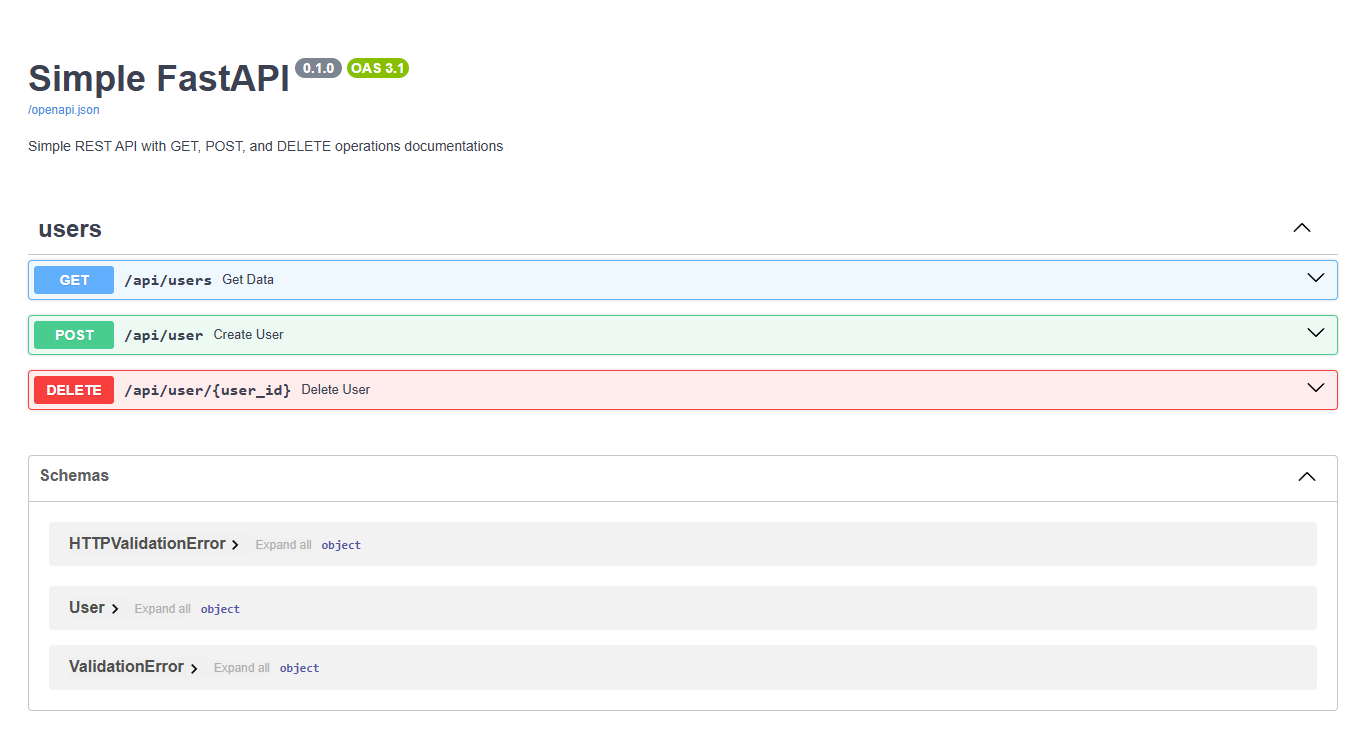
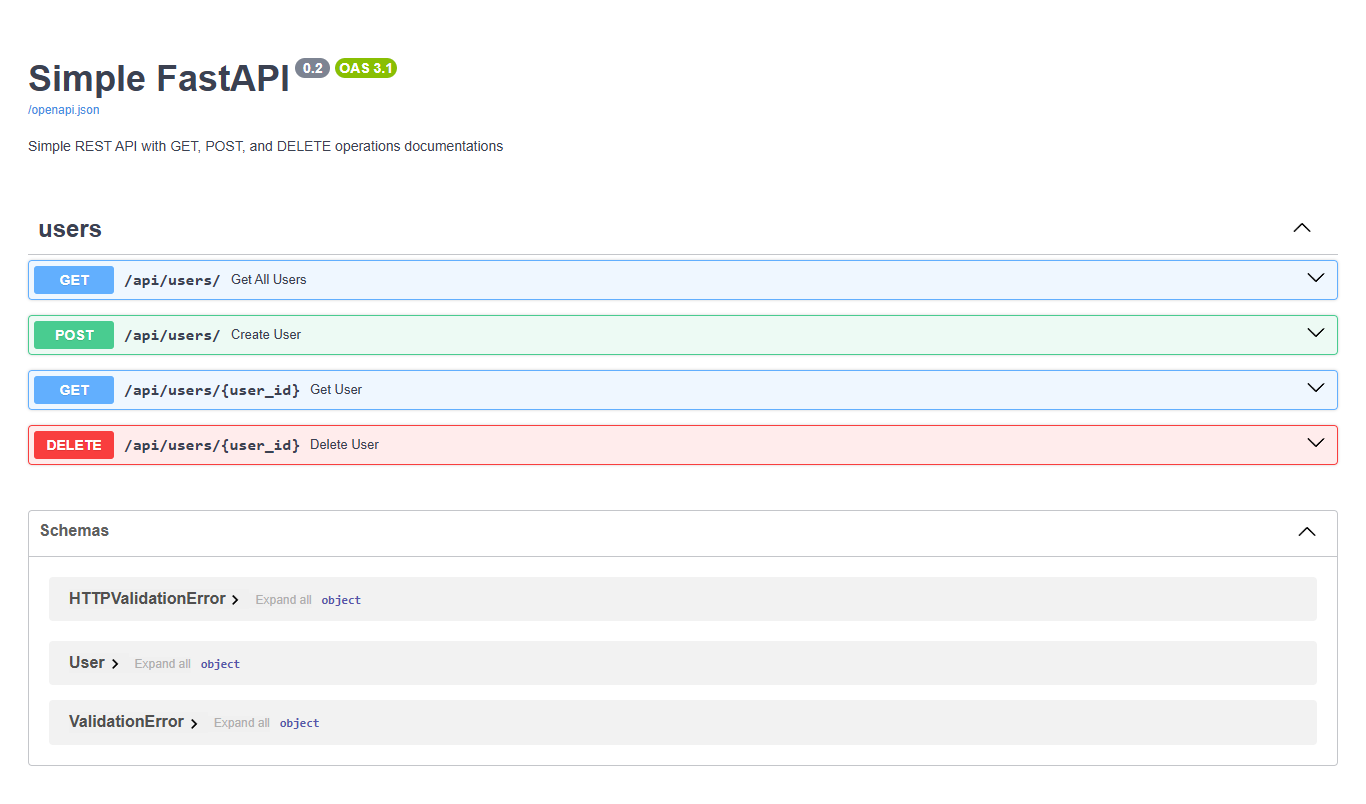
menata ulang path untuk best practice, dan menambahkan operasi get berdasarkan id user

diff --git a/app/routes/users.py b/app/routes/users.py
@@ -1,65 +1,17 @@
-from typing import Annotated
+from typing import Annotated, List
 
-import uvicorn
-from fastapi import FastAPI, Depends, HTTPException, Body
-from sqlmodel import Field, SQLModel, create_engine, select, Session
+from fastapi import HTTPException, Body, APIRouter
+from sqlmodel import select
 
-# sqlite database connection using sqlmodel
-sqlite_file = "user.db"
-sqlite_url = f"sqlite:///{sqlite_file}"
-
-connect_args = {"check_same_thread": False}
-engine = create_engine(sqlite_url, connect_args=connect_args)
-
-def get_session():
-    with Session(engine) as session:
-        yield session
-
-SessionDep = Annotated[Session, Depends(get_session)]
+from connection import SessionDep
+from schemas import User
 
 
-# user validation schema
-class User(SQLModel, table=True):
-    id: int | None = Field(default=None, primary_key=True)
-    nama: str = Field(index=True)
-    umur: int | None = Field(default=None, index=True)
-    alamat: str | None = Field(default=None)
-    
+user_router = APIRouter()
 
-# init fastapi
-app = FastAPI(
-    title="Simple FastAPI",
-    description="Simple REST API with GET, POST, and DELETE operations documentations"
-)
-
-# get data
-@app.get("/api/users", status_code=200, tags=["users"],
+# get all users
+@user_router.get("/", status_code=200, response_model=List[User],
         responses={
-            200: {
-                "description": "Sukses",
-                "content": {
-                    "application/json": {
-                        "example": { 
-                            "status": 200,
-                            "message": "Success",
-                            "data": [
-                                {
-                                    "id": 1,
-                                    "nama": "Ronggo Widjoyo",
-                                    "umur": 20,
-                                    "alamat": "Lamongan"
-                                },
-                                {
-                                    "id": 2,
-                                    "nama": "Ronggo Widjoyo",
-                                    "umur": 20,
-                                    "alamat": "Lamongan"
-                                },
-                            ]
-                        },
-                    }
-                }
-            },
             404: {
                 "description": "Tidak ditemukan",
                 "content": {
@@ -72,22 +24,43 @@ app = FastAPI(
                 }
             }
         }
-)
-def get_data(session: SessionDep):
+    )
+def get_all_users(session: SessionDep):
     """
     Menampilkan semua data User dalam database
     """
     users = session.exec(select(User)).all()
     if not users:
         raise HTTPException(status_code=404, detail="Tidak ada data")
-    return {
-        "status": 200,
-        "message": "Success",
-        "data": [user.model_dump() for user in users]
-    }
+    return users
+
+# get user
+@user_router.get("/{user_id}", status_code=200, response_model=User,
+                 responses={
+                        404: {
+                            "description": "User tidak ditemukan",
+                            "content": {
+                                "application/json": {
+                                    "example": {
+                                        "status": 404,
+                                        "detail": "User tidak ada"
+                                    }
+                                }
+                            }
+                        }
+                    }
+                 )
+def get_user(user_id: int, session: SessionDep):
+    """
+    Mengambil data user berdasarkan *id* user
+    """
+    user = session.get(User, user_id)
+    if not user:
+        raise HTTPException(status_code=404, detail="User tidak ada")
+    return user.model_dump()
 
 # insert data
-@app.post("/api/user", status_code=201, tags=["users"],
+@user_router.post("/", status_code=201,
           responses={
               201: {
                   "description": "Berhasil membuat user",
@@ -119,21 +92,26 @@ def get_data(session: SessionDep):
               }
           }
           )
-def create_user(id: int, nama: str, umur: int, alamat: str, session: SessionDep, user: Annotated[User, Body(examples=[{"id": 1, "nama": "Ronggo Widjoyo", "umur": 20, "alamat": "Lamongan"}])]):
+def create_user(user: Annotated[User, Body(examples=[{"id": 1, "nama": "Ronggo Widjoyo", "umur": 20, "alamat": "Lamongan"}])], session: SessionDep):
     """
     Mambahkan data user ke dalam database
     """
+    user_sekarang = session.get(User, user.id)
+    if user_sekarang:
+        raise HTTPException(status_code=400, detail="Coba dengan id berbeda")
+    
     try:
-        user = User(id=id, nama=nama, umur=umur, alamat=alamat)
         session.add(user)
+        session.flush()
         session.commit()
         session.refresh(user)
         return {"status": 201, "message": "User berhasil dibuat", "data": user.model_dump()}
-    except:
-        raise HTTPException(status_code=400, detail="Coba dengan id berbeda")
+    except Exception as e:
+        session.rollback()
+        raise HTTPException(status_code=500, detail=f"Gagal membuat user: {str(e)}")
 
 # delete data
-@app.delete("/api/user/{user_id}", status_code=200, tags=["users"],
+@user_router.delete("/{user_id}", status_code=200,
             responses={
                 200: {
                     "description": "Berhasil menghapus user",
@@ -158,18 +136,17 @@ def create_user(id: int, nama: str, umur: int, alamat: str, session: SessionDep,
                     }
                 }
             })
-def delete_user(user_id: int, session: SessionDep, user: Annotated[User, Body(examples=[{"id": 1}])]):
+def delete_user(user_id: int, session: SessionDep):
     """
     Menghapus data user berdasarkan id dalam database
     """
     user = session.get(User, user_id)
     if not user:
         raise HTTPException(status_code=404, detail="User tidak ditemukan")
-    session.delete(user)
-    session.commit()
-    return {"status": 200, "message": "Data berhasil dihapus"}
-
-
-
-if __name__ == '__main__':
-    uvicorn.run(app, port=8000)
+    try:
+        session.delete(user)
+        session.commit()
+        return {"status": 200, "message": "Data berhasil dihapus"}
+    except Exception as e:
+        session.rollback()
+        raise HTTPException(status_code=500, detail=f"Gagal menghapus user: {str(e)}")

diff --git a/app/connection.py b/app/connection.py
@@ -1,0 +1,18 @@
+from typing import Annotated
+
+from fastapi import Depends
+from sqlmodel import create_engine, Session
+
+
+# sqlite database connection using sqlmodel
+sqlite_file = "user.db"
+sqlite_url = f"sqlite:///{sqlite_file}"
+
+connect_args = {"check_same_thread": False}
+engine = create_engine(sqlite_url, connect_args=connect_args)
+
+def get_session():
+    with Session(engine) as session:
+        yield session
+
+SessionDep = Annotated[Session, Depends(get_session)]

diff --git a/app/main.py b/app/main.py
@@ -1,0 +1,18 @@
+import uvicorn
+from fastapi import FastAPI
+from routes.users import user_router
+    
+
+# init fastapi
+app = FastAPI(
+    title="Simple FastAPI",
+    description="Simple REST API with GET, POST, and DELETE operations documentations",
+    version="0.2",
+    docs_url="/api/docs",
+)
+
+app.include_router(user_router, prefix="/api/users", tags=["users"])
+
+
+if __name__ == '__main__':
+    uvicorn.run(app, port=8000)

diff --git a/app/schemas.py b/app/schemas.py
@@ -1,0 +1,12 @@
+from sqlmodel import Field, SQLModel
+
+
+# user validation schema
+class User(SQLModel, table=True):
+    id: int = Field(default=None, primary_key=True)
+    nama: str = Field(index=True)
+    umur: int = Field(default=None)
+    alamat: str = Field(default=None)
+
+    class Config:
+        from_attributes = True  # Agar FastAPI bisa mengonversi objek SQLModel ke JSON

diff --git a/README.md b/README.md
@@ -20,6 +20,7 @@ pip install -r requirements.txt
 
 
 ```bash
+$ cd app # you should run in it, because there is database in it
 $ py app.py
 ```
 
